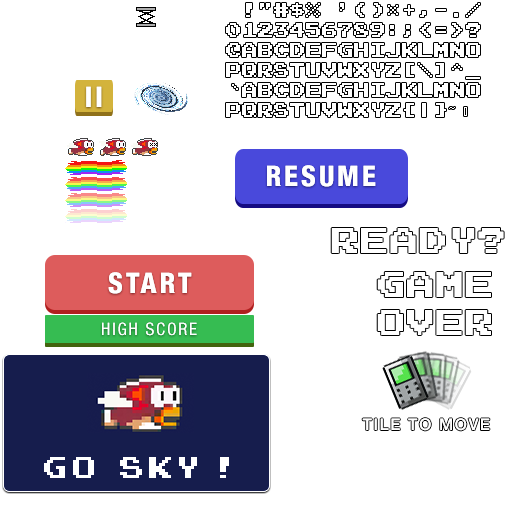
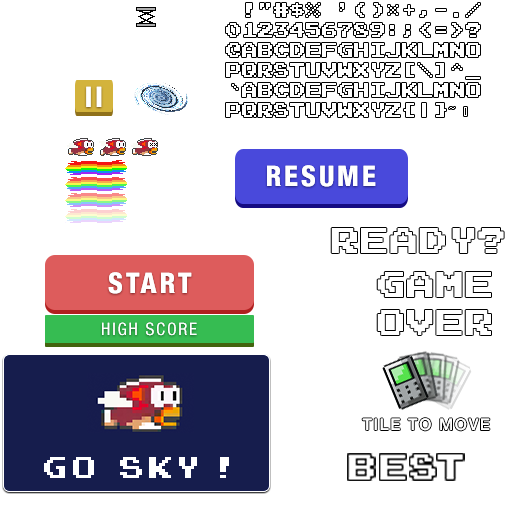
Implement game play

Changed region(s): [[0.6562, 0.875, 0.9062, 0.9375]]

diff --git a/Assets/PlayerController.cs b/Assets/PlayerController.cs
@@ -11,8 +11,11 @@ public class PlayerController : MonoBehaviour {
 	float flyingSpeed = 0.05f;
 	Vector3 velocity = Vector3.zero;
 
+	Vector3 centerPoint;
+
 	bool isEnd = false;
 	bool isFalling = false;
+	bool isPaused = true; // The first value is true to match with the GameStartScreen
 
 	float screenWidth = 3.2f;
 
@@ -23,8 +26,17 @@ public class PlayerController : MonoBehaviour {
 	float starDelayCount = 0f;
 	float starDistance = 0.3f;
 
-	public GameObject rainbow; // Set via GUI
-	public GameObject star; // Set via GUI
+	// Set via GUI
+	public GameObject rainbow;
+	public GameObject star; 
+	public GameObject gameOver;
+	public GameObject bestScore;
+	public GameObject scoreHolder;
+	public GameObject bestScoreHolder;
+	public GameObject resumeBtn; 
+
+	int bestScoreValue = 0;
+
 	Animator animator;
 
 	// Should not create new object in Update() or FixedUpdate(), so we need these variables
@@ -35,7 +47,22 @@ public class PlayerController : MonoBehaviour {
 	// Use this for initialization
 	void Start () {
 		Screen.sleepTimeout = SleepTimeout.NeverSleep;
+
+		centerPoint = new Vector3 ( Screen.width / 2, Screen.height / 2f,  10f);
+		_p = centerPoint;
+		_p.y -= 90f;
+		bestScoreHolder.transform.position = _p;
+		_p.y += 90f + 170f;
+		scoreHolder.transform.position = _p;
+
 		animator = GetComponentInChildren<Animator> ();
+
+		gameOver.renderer.enabled = false;
+		bestScore.renderer.enabled = false;
+		resumeBtn.renderer.enabled = false;
+		setText("BestScoreText", "");
+
+		bestScoreValue = PlayerPrefs.GetInt("bestScore", 0);
 
 		// Create 5 first rainbows
 		for (int i = 0; i < 5; i++) {
@@ -56,7 +83,7 @@ public class PlayerController : MonoBehaviour {
 			isFalling = true;
 			gameObject.layer = LayerMask.NameToLayer("NoRainbow");
 
-			
+			// If the fish is falling, tap will skip the falling movie
 			if (Input.GetKeyDown (KeyCode.Space) || 
 			    Input.touches.Length > 0) {
 				// Go to bottom immediately
@@ -66,14 +93,29 @@ public class PlayerController : MonoBehaviour {
 		}
 
 		if (isEnd) {
+			// If the game is end, tap will restart the game
 			if (Input.GetKeyDown (KeyCode.Space) || 
 			    Input.touches.Length > 0) {
 				// Restart game
 				RainbowController.highBlock = -1200f;
 				Application.LoadLevel( Application.loadedLevel );
 			}
+			gameOver.renderer.enabled = true;
+			bestScore.renderer.enabled = true;
+			setText("BestScoreText", bestScoreValue.ToString());
+
+			scoreHolder.transform.position = centerPoint;
 			return;
 		}
+
+		// If game is playing, tap will pause the game
+		if (!isFalling && Input.GetKeyDown (KeyCode.Space) || 
+		    Input.touches.Length > 0) {
+			// Pause game
+			isPaused = !isPaused;
+			updateGameState();
+		}
+
 		if (Input.GetKeyDown (KeyCode.RightArrow)) {
 			velocity = Vector3.right * flyingSpeed;
 		} else if (Input.GetKeyDown (KeyCode.LeftArrow)) {
@@ -153,17 +195,34 @@ public class PlayerController : MonoBehaviour {
 			collider.tag = "ScorePointExpired";
 			CreateRainbow ();
 			score++;
-			Debug.Log("Score: " + score);
+			setText("ScoreText", score.ToString());
 
-			GameObject[] objs = GameObject.FindGameObjectsWithTag("ScoreText");
-			foreach (GameObject obj in objs) {
-				Text t = obj.GetComponent<Text>();
-				t.text = score.ToString();
-
+			if (score > bestScoreValue) {
+				bestScoreValue = score;
+				PlayerPrefs.SetInt("bestScore", bestScoreValue);
 			}
 		}
 	}
-	
+
+	void setText(string tag, string text) {
+		GameObject[] objs = GameObject.FindGameObjectsWithTag(tag);
+		foreach (GameObject obj in objs) {
+			Text t = obj.GetComponent<Text>();
+			t.text = text;
+		}
+	}
+	void updateGameState() {
+		if (isPaused) {
+			Time.timeScale = 0;
+			AudioListener.pause = true;
+			resumeBtn.renderer.enabled = true;
+		} else {
+			Time.timeScale = 1;
+			AudioListener.pause = false;
+			resumeBtn.renderer.enabled = false;
+		}
+
+	}
 	void CreateRainbow() {
 		Instantiate (rainbow, new Vector3(0, 3f), Quaternion.identity);
 	}

diff --git a/Assets/GameStartScreen.cs b/Assets/GameStartScreen.cs
@@ -1,0 +1,40 @@
+using UnityEngine;
+using System.Collections;
+
+public class GameStartScreen : MonoBehaviour {
+
+	static bool sawOnce = false;
+	
+	// Use this for initialization
+	void Start () {
+		ShowChildren ();
+		Time.timeScale = 0;
+	}
+	
+	// Update is called once per frame
+	void Update () {
+		if(Time.timeScale==0 && (Input.GetKeyDown (KeyCode.Space) || 
+		                         Input.touches.Length > 0) ) {
+			Time.timeScale = 1;
+			HideChildren ();
+			
+		}
+	}
+	void HideChildren()
+	{
+		Renderer[] lChildRenderers=gameObject.GetComponentsInChildren<Renderer>();
+		foreach ( Renderer lRenderer in lChildRenderers)
+		{
+			lRenderer.enabled=false;
+		}
+	}
+	void ShowChildren()
+	{
+		Renderer[] lChildRenderers=gameObject.GetComponentsInChildren<Renderer>();
+		foreach ( Renderer lRenderer in lChildRenderers)
+		{
+			lRenderer.enabled=true;
+		}
+	}
+
+}

diff --git a/Assets/RainbowController.cs b/Assets/RainbowController.cs
@@ -13,7 +13,7 @@ public class RainbowController : MonoBehaviour {
 	float minSpeed = 0.005f;
 	float maxSpeed = 0.03f;
 
-	float springPercent = 0.9f;
+	float springPercent = 0.1f;
 
 	float speed = 0f;
 	float dying = 0f; // 0 = still living, > 0: dying

diff --git a/Assets/GamePause.cs b/Assets/GamePause.cs
@@ -1,0 +1,15 @@
+using UnityEngine;
+using System.Collections;
+
+public class GamePause : MonoBehaviour {
+
+	// Use this for initialization
+	void Start () {
+	
+	}
+	
+	// Update is called once per frame
+	void Update () {
+	
+	}
+}
